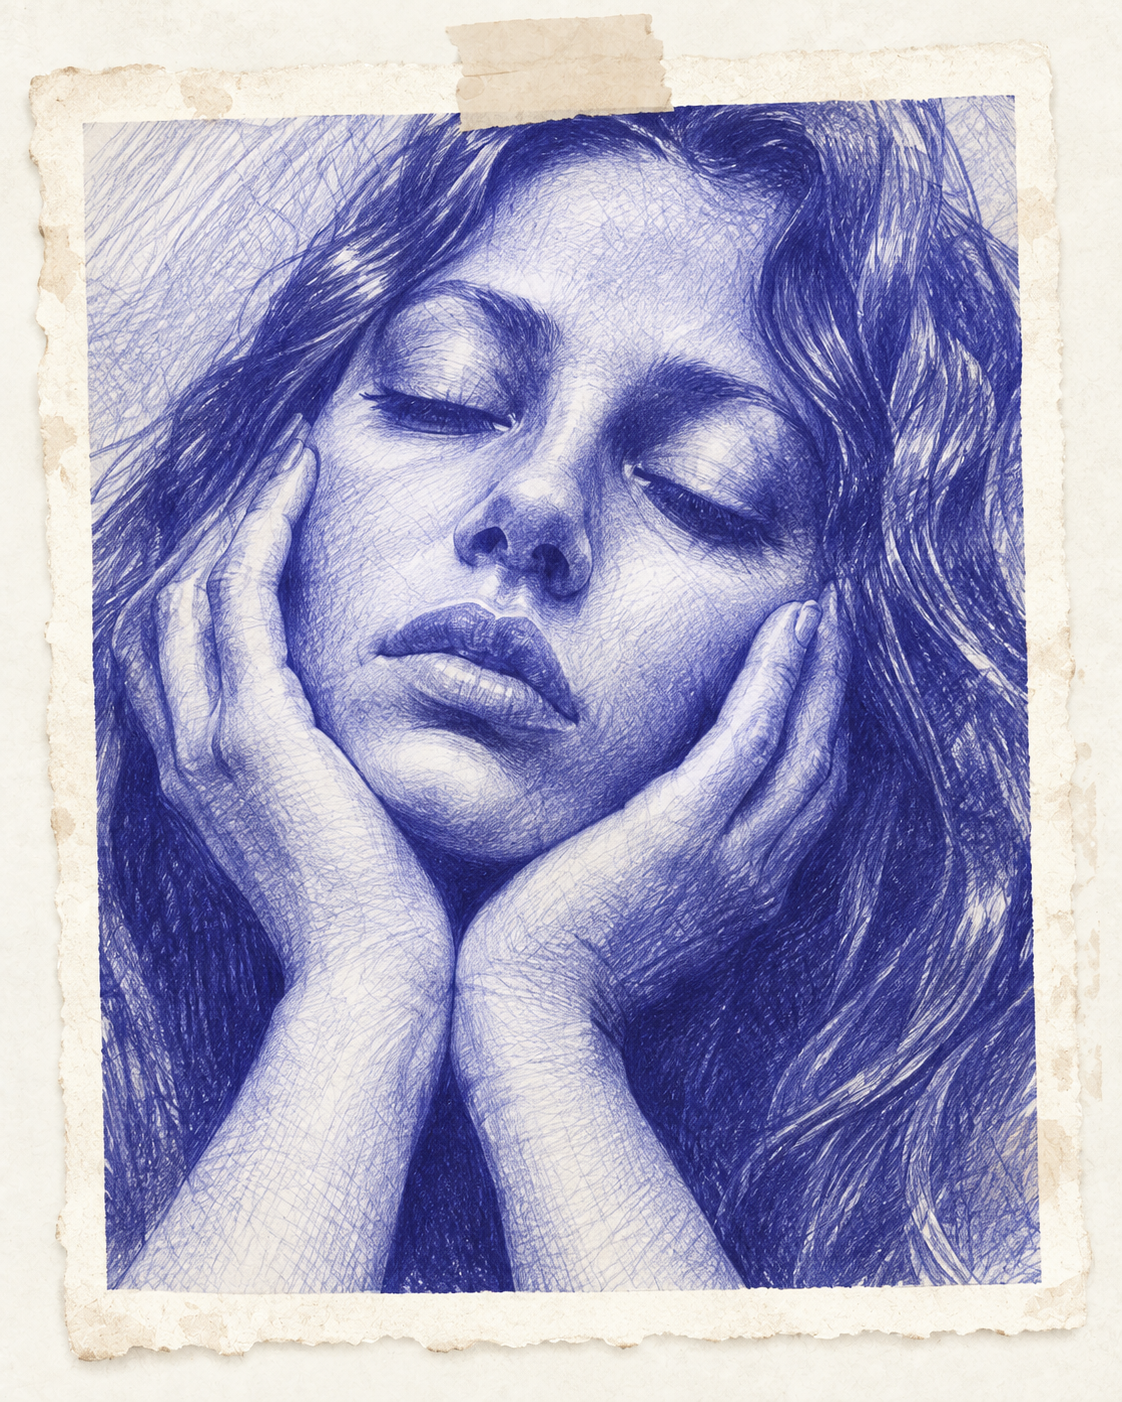
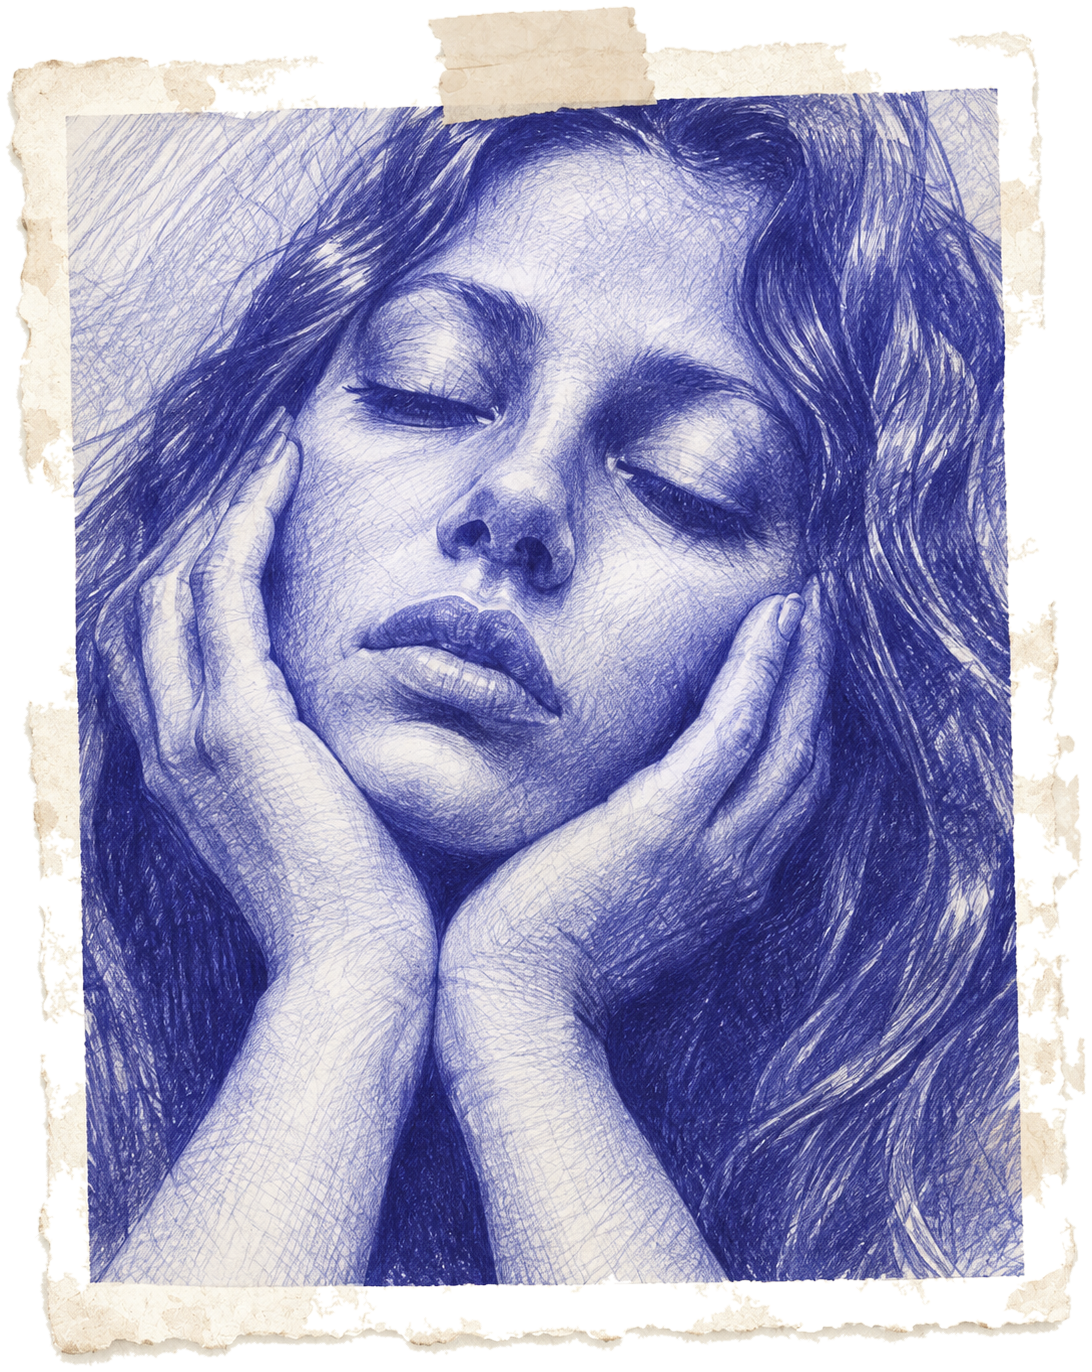
Finalisation de la page “T’es qui ?” et allègement des éléments visuels
Nettoyage des essais de fil rouge global, ajustement du collage artistique et suppression du fond blanc parasite sous le portrait bleu. Harmonisation finale des espacements et allègement du CTA bas de page pour mieux équilibrer la composition générale avant passage au responsive.

diff --git a/styles.css b/styles.css
@@ -9561,7 +9561,6 @@ button.offer-accordion-header:focus-visible {
   width: 100%;
   height: auto;
   display: block;
-  border-radius: 2px;
   filter: drop-shadow(0 10px 24px rgba(62, 57, 52, 0.13));
   background: transparent;
   border: none;
@@ -10057,7 +10056,7 @@ button.offer-accordion-header:focus-visible {
 
 #page-about .about-cta-paper-wrapper {
   position: relative;
-  max-width: 495px;
+  max-width: 425px;
   width: 100%;
   margin: 0 auto;
   display: flex;
@@ -10071,7 +10070,7 @@ button.offer-accordion-header:focus-visible {
   left: 50%;
   transform: translate(-50%, -50%) scale(1.05);
   width: 118%;
-  max-width: 610px;
+  max-width: 520px;
   height: auto;
   pointer-events: none;
   z-index: 0;
@@ -10099,24 +10098,24 @@ button.offer-accordion-header:focus-visible {
   flex-direction: column;
   align-items: center;
   justify-content: center;
-  padding: 24px 38px;
+  padding: 18px 28px;
   text-align: center;
   box-sizing: border-box;
 }
 
 #page-about .about-cta-final-title {
   font-family: 'Playfair Display', Georgia, serif !important;
-  font-size: 30px !important;
+  font-size: 26px !important;
   font-weight: 600 !important;
   color: #3E3934 !important;
-  margin-bottom: 8px !important;
+  margin-bottom: 4px !important;
 }
 
 #page-about .about-cta-final-text {
   font-family: var(--font-sans, 'Montserrat', sans-serif) !important;
-  font-size: 14.5px !important;
+  font-size: 13.5px !important;
   color: #5C5248 !important;
-  margin-bottom: 18px !important;
+  margin-bottom: 14px !important;
 }
 
 #page-about .about-cta-final-btn {
@@ -10127,9 +10126,9 @@ button.offer-accordion-header:focus-visible {
   background-color: var(--color-cta, #596756);
   color: #FFFFFF !important;
   font-family: var(--font-sans, 'Montserrat', sans-serif);
-  font-size: 15px;
+  font-size: 14px;
   font-weight: 500;
-  padding: 12px 28px;
+  padding: 10px 24px;
   border-radius: 999px;
   text-decoration: none;
   transition: background-color 0.25s ease, transform 0.25s ease;
@@ -10183,29 +10182,29 @@ button.offer-accordion-header:focus-visible {
 
   /* Support papier CTA final sur mobile */
   #page-about .about-cta-paper-wrapper {
-    max-width: 100% !important;
+    max-width: 360px !important;
     width: 100% !important;
     margin: 0 auto !important;
   }
 
   #page-about .about-cta-paper-content {
-    padding: 16px 20px !important;
+    padding: 14px 18px !important;
   }
 
   #page-about .about-cta-final-title {
-    font-size: 22px !important;
-    margin-bottom: 6px !important;
+    font-size: 21px !important;
+    margin-bottom: 4px !important;
   }
 
   #page-about .about-cta-final-text {
-    font-size: 13px !important;
-    margin-bottom: 12px !important;
-    line-height: 1.4 !important;
+    font-size: 12.5px !important;
+    margin-bottom: 10px !important;
+    line-height: 1.35 !important;
   }
 
   #page-about .about-cta-final-btn {
-    font-size: 13.5px !important;
-    padding: 8px 20px !important;
+    font-size: 13px !important;
+    padding: 7px 18px !important;
     max-width: 100%;
     box-sizing: border-box;
     white-space: nowrap;

diff --git a/index.html b/index.html
@@ -2305,6 +2305,7 @@
          ========================================================================== -->
       <section class="about-values-section">
         <div class="content-wrap">
+          <!-- EN-TÊTE ÉDITORIAL HORIZONTAL : TITRE + ACCENTS + PHRASE MANUSCRITE + NOTE EN HAUT À DROITE -->
           
           <!-- EN-TÊTE ÉDITORIAL HORIZONTAL : TITRE + ACCENTS + PHRASE MANUSCRITE + NOTE EN HAUT À DROITE -->
           <div class="about-values-header-col">
